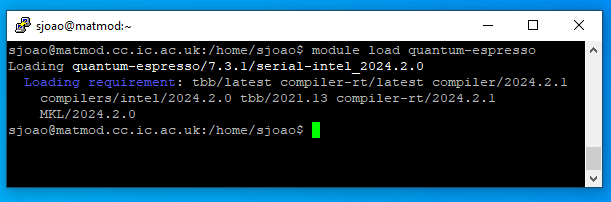
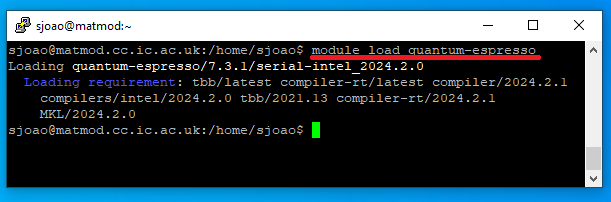
finished editing lab01

Changed region(s): [[0.4975, 0.2673, 0.9018, 0.297]]

diff --git a/docs/labs/lab01/readme.md b/docs/labs/lab01/readme.md
@@ -264,76 +264,47 @@ Throughout the course, when running on the server you'll need to remember to loa
 
 ## Running your first DFT calculation!
 
-The various files associated with the labs for this course are all available
-in `/opt/Courses/MSE404`.The documentation files for the version of Quantum Espresso we will be using
-are all collected in `/opt/share/quantum-espresso/doc-6.3`. 
+
+Now that you know the basics of the Linux operating system, it's time to run your first DFT calculation. First, we need to setup a few files and directories. The various files associated with the labs for this course are all available
+in `/opt/MSE404-MM/docs/labs`.
 
 !!! example "Task 4.5"
-    Try changing to each of these directories now and taking a look at files that are contained in each of them. Change back to the home directory once you're done.
+    Try changing directories to `/opt/MSE404-MM/docs/labs` and exploring the folders and taking a look at files that are contained in there. Change back to the home directory once you're done.
 
-Now that you know the basics of the Linux operating system, it's time to run your first DFT calculation. First, we need to setup a few files and directories
 
 !!! example "Task"
 
-    - In your home directory create the directory `MSE404`.
-    - Copy the directory with the input files for this course
-      `/opt/Courses/MSE404/lab01` to the directory you just created `~/MSE404`.
-      Remember you need to pass an additional flag to `cp` to copy a directory.
-    - List the contents of directory `~/MSE404/lab01/methane` with `ls -l`
+    - In your home directory create the directory `MSE404-MM`.
+    - Copy the directory with the input files for this course `/opt/MSE404-MM/docs/labs/lab01` to the directory you just created `~/MSE404-MM`. Remember you need to pass an additional flag to `cp` to copy a directory.
+    - List the contents of directory `~/MSE404-MM/lab01/methane` with `ls`
         - You'll see there are three files in the directory you copied.
           1. `CH4.in` - an input file for the DFT code you'll be using.
-          2. `C.pz-vbc.UPF` - a pseudopotential file for carbon, which tells the DFT code
-          what approximation to use in your calculation.
-          3. `H.pz-vbc.UPF` - a pseudopotential file for hydrogen, which tells the DFT code
-          what approximation to use in your calculation.
+          2. `C.pz-vbc.UPF` - a pseudopotential file for carbon, which tells the DFT code what approximation to use in your calculation.
+          3. `H.pz-vbc.UPF` - a pseudopotential file for hydrogen, which tells the DFT code what approximation to use in your calculation.
         - You'll learn more about these types of files in later classes.
-        - If you've followed the steps as given here, and have colour highlighting
-          in the terminal application you're using, you'll see the pseudopotential files are
-          highlighted in red when you did `ls -l`. This is because they are links
-          and currently don't point to valid files. It's looking for files at
-          `../../pseudo/C.pz-vbc.UPF` and `../../pseudo/H.pz-vbc.UPF` 
-          where `../..` means go up two directories
-          from the current directory. In other words this is looking for the files
-          at `~/MSE404/pseudo/C.pz-vbc.UPF` and `~/MSE404/pseudo/H.pz-vbc.UPF`.
-          You'll correct this in the next step.
-    - Go to the `~/MSE404` directory and make a copy there of the directory
-      holding various pseudopotentials used in the course:
-      `/opt/Courses/MSE404/pseudo`. You should now see that the file in
-      `~/MSE404/lab01/methane` is blue when you do `ls` in this directory
-      indicating it can now find a file in the location specified by the link.
-    - Within your `MSE404` directory also create a symbolic link to the Quantum
-      Espresso documentation folder `/opt/share/quantum-espresso/doc-6.3` called
-      `qe-doc`.
+
+    ![text](images/19MSE.PNG){: width="600" }
 
 
 Now you are finally ready to run the DFT calculation
 
 !!! example "Task"
 
-    - First we need to load the Quantum Espresso module. Type the following in your terminal to load
-      the three modules you need in one go `module load gcc mkl espresso`.
-    - Now you'll be able to use the various Quantum Espresso package executables
-      directly. Go to the methane folder you copied earlier
-      (`~/MSE404/lab01/methane`) and look at what files are in that directory.
-    - The input file there is for the `pw.x` code. You can pass this file to
-      `pw.x` with input redirection and save the output to a file with output
-      redirection (otherwise the output will just be in the terminal). To do this
-      type `pw.x < CH4.in > CH4.out`.
-    - See what files are present in the directory now. As well as the output file
-      we saved, some others were generated.
-    - Take a look through the output file using `less`. We'll discuss the
-      contents of this in next week's lab, but for now skip to the section
-      immediately following the line that reads
-      `End of self-consistent calculation`:
-        - This lists the calculated eigenvalues.
-        - We have four doubly-occupied bands in our calculation, so you'll see
-          four numbers.
-        - Following this, you can see in the output, the value of the highest occupied
-          energy level in eV, and the total energy in Rydberg.
-    - Congratulate yourself on running your first DFT calculation.
+    - First we need to load the Quantum Espresso module. If you haven't done this already, run `module load quantum-espresso`.
+    - Now you'll be able to use the various Quantum Espresso package executables directly. Use `cd` to go to the methane folder you copied earlier (`~/MSE404-MM/lab01/methane`)
+    - The input file there is for the `pw.x` code. You can pass this file to `pw.x` with input redirection and save the output to a file with output redirection (otherwise the output will just be in the terminal). To do this type `pw.x < CH4.in > CH4.out`.
+    - See what files are present in the directory now. As well as the output file we saved, some others were generated.<br>
+    ![text](images/20dft.PNG){: width="600" }<br>
+    - Take a look through the output file `CH4.out` using `less`. You can usse the arrow keys to scroll, `g` to go to the beginning of the file, `G` to go to the end of the file and `q` to exit the reader. We'll discuss the contents of this in next week's lab, but for now skip to the section immediately following the line that reads `End of self-consistent calculation`:
+          - This lists the calculated eigenvalues.
+          - We have four doubly-occupied levels in our calculation, so you'll see four numbers.
+          - Following this, you can see in the output, the value of the highest occupied energy level in eV, and the total energy in Rydberg.
+          - Congratulate yourself on running your first DFT calculation.
+
+    ![text](images/21DFT.PNG){: width="600" }
 
 
-
+Once you're done, exit the session by closing the terminal.
 
 ## Summary
 
@@ -341,34 +312,19 @@ There are a lot of commands to remember from this week's lab. You can always
 refer back to this week, but to make things easier in future weeks you might
 find a cheatsheet useful. If you don't want to make your own, a quick Google
 search of `Linux cheat sheet` brings up a number of options.
-<br><br><br><br><br><br><br><br><br><br><br><br><br><br><br><br>
-***youtube video?***
-<br><br><br><br><br><br><br><br><br><br><br><br><br><br><br><br>
-If you're interested in seeing some more command line tools, some of these are
-listed in [linuxcommands](../extras/misc/linuxcommands/readme.md). If you have
-time, I encourage you to at least skim through them, as it's very useful to know
-what kinds of things are possible. We'll refer back to some of these commands
-throughout the course.
-
-**Once you're finished with everything, be sure to log out of the remote
-desktop session. You can see this option if you click on your name on the
-top right.**
 
 To run the DFT example in this lab you will need to do the following:
 
 - Make a directory that will hold the material for the MSE404 labs:
-  `mkdir ~/MSE404`.
+  `mkdir ~/MSE404-MM`.
 - Copy the directory with the inputs for this lab to this directory:
-  `cp -r /opt/Courses/MSE404/lab01 ~/MSE404`.
-- Copy the directory with the various pseudopotential files to this directory
-  also: `cp -r /opt/Courses/MSE404/pseudo ~/MSE404`.
-- Make a link to the Quantum Espresso documentation directory in your home directory:
-  `cd ~/MSE404; ln -s /opt/share/quantum-espresso/doc-6.3 ./qe-doc`.
+  `cp -r /opt/MSE404-MM/docs/labs/lab01 ~/MSE404-MM`.
 - Load the modules needed to run Quantum Espresso:
-  `module load gcc mkl espresso`.
-- Go to the directory with the input files you copied and use these with
-  `pw.x` saving the output in a file:
-  `cd ~/MSE404/lab01/methane; pw.x < CH4.in > CH4.out`.
+  `module load quantum-espresso`.
+- Go to the directory with the input files you copied 
+  `cd ~/MSE404-MM/lab01/methane`.
+- Use `pw.x` to process the input file, saving the output to a file:
+  `pw.x < CH4.in > CH4.out`.
 - Take a look through the output file:
   `less CH4.out`.
 - Logout of the remote server once you're done.
